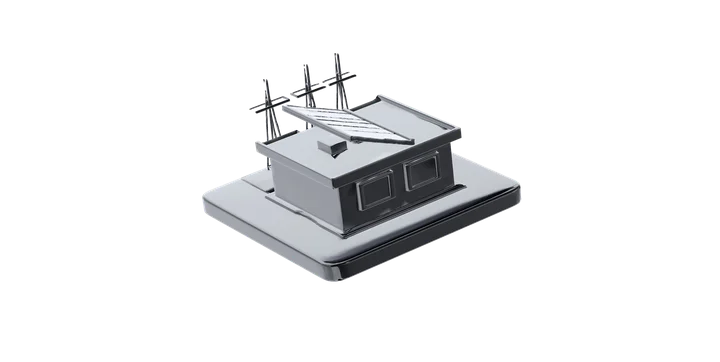
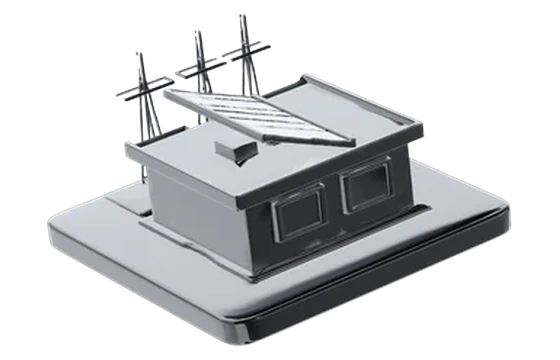
Normalise hero direction renders to a consistent size
The four renders each sat on a 720x361 canvas with a different amount of
transparent padding, so identical CSS produced very different apparent
sizes — the offshore subject filled 21% of its canvas while renewable
filled 45%, making them look mismatched and small.

Crop each render to its actual subject, scale it to fill 94% of a shared
560x360 canvas, and centre it. All four subjects now land at the same
height, so one CSS width gives a consistent result.

Also raise the display cap from min(68%, 260px) — which resolved to only
~164px inside a ~241px card — to min(94%, 320px), and update the intrinsic
width/height attributes to match the new canvas.

Note: the offshore and industrial subjects were small in the source
(152x127 and 253x144), so they are upscaled 2.7x and 2.1x here. They read
correctly at display size but would be sharper re-exported from the
original 3D scenes.

diff --git a/index.html b/index.html
@@ -137,22 +137,22 @@
           <a class="dir-card marked" href="#services">
             <span class="corners"><i></i><i></i><i></i><i></i></span>
             <span class="dir-top"><span class="num">01</span><span class="name">Shipbuilding</span><span class="arr">↗</span></span>
-            <img src="assets/render-ship.webp" alt="3D render of a cargo ship" loading="eager" width="720" height="361">
+            <img src="assets/render-ship.webp" alt="3D render of a cargo ship" loading="eager" width="560" height="360">
           </a>
           <a class="dir-card" href="#services">
             <span class="corners"><i></i><i></i><i></i><i></i></span>
             <span class="dir-top"><span class="num">02</span><span class="name">Offshores</span><span class="arr">↗</span></span>
-            <img src="assets/render-offshore.webp" alt="3D render of an offshore platform" loading="eager" width="720" height="361">
+            <img src="assets/render-offshore.webp" alt="3D render of an offshore platform" loading="eager" width="560" height="360">
           </a>
           <a class="dir-card" href="#services">
             <span class="corners"><i></i><i></i><i></i><i></i></span>
             <span class="dir-top"><span class="num">03</span><span class="name">Industrial Projects</span><span class="arr">↗</span></span>
-            <img src="assets/render-industrial.webp" alt="3D render of an industrial plant" loading="eager" width="720" height="361">
+            <img src="assets/render-industrial.webp" alt="3D render of an industrial plant" loading="eager" width="560" height="360">
           </a>
           <a class="dir-card" href="#services">
             <span class="corners"><i></i><i></i><i></i><i></i></span>
             <span class="dir-top"><span class="num">04</span><span class="name">Renewable Projects</span><span class="arr">↗</span></span>
-            <img src="assets/render-renewable.webp" alt="3D render of a renewable energy facility" loading="eager" width="720" height="362">
+            <img src="assets/render-renewable.webp" alt="3D render of a renewable energy facility" loading="eager" width="560" height="360">
           </a>
         </div>
 

diff --git a/css/style.css b/css/style.css
@@ -382,7 +382,9 @@ button { font-family: inherit; cursor: pointer; }
 }
 .dir-card:hover .arr { transform: translate(3px, -3px); }
 .dir-card img {
-  width: min(68%, 260px);
+  /* renders are normalised to a 560x360 canvas with the subject filling 94%,
+     so a single width here gives all four cards a consistent visual size */
+  width: min(94%, 320px);
   margin: auto;
   filter: drop-shadow(0 18px 30px rgba(0, 0, 0, 0.5));
   transition: transform 0.5s var(--ease);
